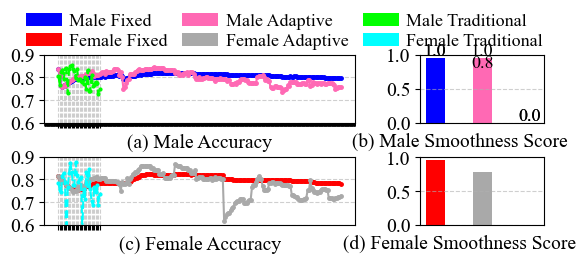
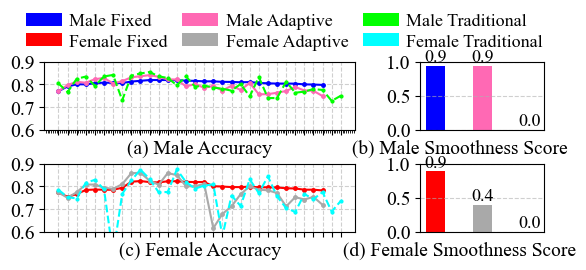
exp

diff --git a/experiments/movielens/river100K/Accuracy_diff/hoeffding_tree/methods_curve_direct_compare/fig.py b/experiments/movielens/river100K/Accuracy_diff/hoeffding_tree/methods_curve_direct_compare/fig.py
@@ -52,7 +52,7 @@ correctness_column = "diff_binary_correctness"
 use_two_counters = True
 time_unit = "1 hour"
 # window_size_units = "24*7*4*2"
-checking_interval = "24 hour"
+checking_interval = "7 day"
 use_nanosecond = False
 
 
@@ -76,44 +76,44 @@ colors_set2 = ["#ff7f0e", "#ffbb78", "#d62728"]  # Orange, light orange, red
 curve_colors = sns.color_palette("magma", 3) + sns.color_palette("viridis", 3)
 curve_colors = ["blue", "red", "hotpink", "DarkGrey", "Lime", "cyan"]
 
-######################################## Dynamic fixed window ########################################
+####################################### Dynamic fixed window ########################################
 
 
-#
-# # Inset zoom
-# from mpl_toolkits.axes_grid1.inset_locator import inset_axes
-# # axins = inset_axes(axs[0][0], width="30%", height="30%", loc="upper right")
-#
-# df_fixed = pd.read_csv(f"fixed_window_{checking_interval}.csv")
-#
-# x_list = np.arange(len(df_fixed))
-# axs[0][0].plot(x_list, df_fixed['male_time_decay'], linewidth=1.5, markersize=2.5, label = 'male fixed window',
-#             linestyle='-', marker='o',
-#             color=curve_colors[0])
-# axs[1][0].plot(x_list, df_fixed['female_time_decay'], linewidth=1.5, markersize=2.5, label = 'female fixed window',
-#             linestyle='-', marker='o',
-#             color=curve_colors[1])
-#
-#
-#
-# ######################################## Dynamic adaptive window ########################################
-#
-# Tb = 24*7
-# Tin = 24
-#
-# df_adaptive = pd.read_csv(f"adaptive_window_{checking_interval}.csv")
-# x_list = np.arange(len(df_adaptive))
-# axs[0][0].plot(x_list, df_adaptive["male_time_decay"], linewidth=1.5, markersize=2.5, label='male adaptive window',
-#             linestyle='-', marker='o',
-#             color=curve_colors[2])
-# axs[1][0].plot(x_list, df_adaptive["female_time_decay"], linewidth=1.5, markersize=2.5, label='female adaptive window',
-#             linestyle='-', marker='o',
-#             color=curve_colors[3])
-#
-#
-#
-# ######################################## traditional ########################################
-#
+
+# Inset zoom
+from mpl_toolkits.axes_grid1.inset_locator import inset_axes
+# axins = inset_axes(axs[0][0], width="30%", height="30%", loc="upper right")
+
+df_fixed = pd.read_csv(f"fixed_window_{checking_interval}.csv")
+
+x_list = np.arange(len(df_fixed))
+axs[0][0].plot(x_list, df_fixed['male_time_decay'], linewidth=1.5, markersize=2.5, label = 'male fixed window',
+            linestyle='-', marker='o',
+            color=curve_colors[0])
+axs[1][0].plot(x_list, df_fixed['female_time_decay'], linewidth=1.5, markersize=2.5, label = 'female fixed window',
+            linestyle='-', marker='o',
+            color=curve_colors[1])
+
+
+
+######################################## Dynamic adaptive window ########################################
+
+Tb = 24*7
+Tin = 24
+
+df_adaptive = pd.read_csv(f"adaptive_window_{checking_interval}.csv")
+x_list = np.arange(len(df_adaptive))
+axs[0][0].plot(x_list, df_adaptive["male_time_decay"], linewidth=1.5, markersize=2.5, label='male adaptive window',
+            linestyle='-', marker='o',
+            color=curve_colors[2])
+axs[1][0].plot(x_list, df_adaptive["female_time_decay"], linewidth=1.5, markersize=2.5, label='female adaptive window',
+            linestyle='-', marker='o',
+            color=curve_colors[3])
+
+
+
+######################################## traditional ########################################
+
 
 
 window_size = "1W"
@@ -185,130 +185,130 @@ axs[1][0].grid(True, axis="x", linestyle='--', alpha=0.6)
 
 fig.savefig("curves.png", bbox_inches='tight')
 
-#
-# ######################################## roughness ########################################
-#
-# def roughness2smoothness(roughness_FPR):
-#     print("Roughness: ", roughness_FPR)
-#
-#     # Scale roughness to smoothness
-#     max_roughness = max(roughness_FPR.values())
-#     smoothness_scores = {key: 1 - (value / max_roughness) for key, value in roughness_FPR.items()}
-#     print("Smoothness Scores (Before Normalization):", smoothness_scores)
-#
-#     # # Normalize smoothness scores to [0, 1]
-#     # max_smoothness = max(smoothness_scores.values())
-#     # min_smoothness = min(smoothness_scores.values())
-#     # normalized_smoothness = {key: score/max_smoothness
-#     #                          for key, score in smoothness_scores.items()}
-#     # print("Normalized Smoothness Scores:", normalized_smoothness)
-#     # print("\n")
-#     return smoothness_scores
-#
-#
-# smooth_male = {}
-# smooth_female = {}
-#
-# with open("roughness_compas_FPR.csv", "w", newline='') as csvfile:
-#     writer = csv.writer(csvfile, delimiter=',')
-#     writer.writerow(["smoothness", "roughness", "check_points"])
-#     writer.writerow(["male_fixed_window", np.std(np.diff(df_fixed["male_time_decay"]) / np.diff(x_list))])
-#     smooth_male["male_fixed_window_smoothness"] = np.std(np.diff(df_fixed["male_time_decay"]) / np.diff(x_list))
-#
-#     writer.writerow(["male_adaptive_window", np.std(np.diff(df_adaptive["male_time_decay"]) / np.diff(x_list))])
-#     smooth_male["male_adaptive_window_smoothness"] = np.std(np.diff(df_fixed["male_time_decay"]) / np.diff(x_list))
-#
-#     tra = df_traditional["calculated_value"].tolist()
-#     tra = [x for x in tra if str(x) != 'nan']
-#     dydx = np.diff(tra) / np.diff(np.arange(0, len(tra)))
-#     sm = np.std(dydx)
-#     writer.writerow(["male_traditional", sm])
-#     smooth_male["male_traditional_smoothness"] = sm
-#
-#
-# print(smooth_male)
-#
-# # smoothness_scores_male = [1/sd for sd in list(smooth_male.values())]  # Example data
-# # # Normalize based on the maximum value observed
-# # max_smoothness_male = max(smoothness_scores_male)
-# # smoothness_scores_normalized_male = [score / max_smoothness_male for score in smoothness_scores_male]
-# smoothness_scores_normalized_male = roughness2smoothness(smooth_male)
-# print("Normalized Smoothness Scores male fixed, adaptive, tradidtional:", smoothness_scores_normalized_male)
-#
-#
-# with open("roughness_compas_FPR.csv", "a", newline='') as csvfile:
-#     writer = csv.writer(csvfile, delimiter=',')
-#     # do the same for females
-#     writer.writerow(["female_fixed_window", np.std(np.diff(df_fixed["female_time_decay"]) / np.diff(x_list))])
-#     smooth_female["female_fixed_window_smoothness"] = np.std(np.diff(df_fixed["female_time_decay"]) / np.diff(x_list))
-#     writer.writerow(["female_adaptive_window", np.std(np.diff(df_adaptive["female_time_decay"]) / np.diff(x_list))])
-#     smooth_female["female_adaptive_window_smoothness"] = np.std(np.diff(df_adaptive["female_time_decay"]) / np.diff(x_list))
-#     tra = df_traditional["calculated_value"].tolist()
-#     tra = [x for x in tra if str(x) != 'nan']
-#     dydx = np.diff(tra) / np.diff(np.arange(0, len(tra)))
-#     sm = np.std(dydx)
-#     writer.writerow(["female_traditional_smoothness", sm])
-#     smooth_female["female_traditional_smoothness"] = sm
-#
-#
-# print(smooth_female)
-#
-# # smoothness_scores_female = [1/sd for sd in list(smooth_female.values())]  # Example data
-# # # Normalize based on the maximum value observed
-# # max_smooth_female = max(smoothness_scores_female)
-# # smoothness_scores_normalized_female = [score / max_smooth_female for score in smoothness_scores_female]
-# smoothness_scores_normalized_female = roughness2smoothness(smooth_female)
-# print("Normalized smoothness Scores female fixed, adaptive, traditional:", smoothness_scores_normalized_female)
-#
-#
-# bar_colors = ["blue", "hotpink",  "Lime",  "red",  "DarkGrey", "cyan"]
-#
-#
-#
-# # Male Smoothness Bar Chart
-# bars = axs[0][1].bar(["Fixed Window", "Adaptive Window", "Traditional Method"],
-#            smoothness_scores_normalized_male.values(), color=bar_colors[:3], width=0.4,
-#               label = ["Male Fixed", "Male Adaptive", "Male Traditional"])
-# axs[0][1].set_title("(b) Male Smoothness Score", y=-0.15, pad=-10, fontsize=14).set_position([0.32, -0.14])
-# axs[0][1].bar_label(bars, label_type='edge', fontsize=13, fmt='%.1f', padding=-1)
-#
-#
-# axs[0][1].set_yticks([0.0, 0.5, 1.0], ["0.0", "0.5", "1.0"], fontsize=14)
-# axs[0][1].grid(True, linestyle='--', alpha=0.6)
-# axs[0][1].set_xticks([], [], rotation=0, fontsize=14)
-# # axs[0][1].set_ylabel('Normalized Smoothness Score', fontsize=14, labelpad=-1).set_position([0.4, -0.1])
-#
-#
-# # Female Smoothness Bar Chart
-# bars = axs[1][1].bar(["Fixed Window", "Adaptive Window", "Traditional Method"],
-#            smoothness_scores_normalized_female.values(), color=bar_colors[3:], width=0.4,
-#               label = ["Female Fixed", "Female Adaptive", "Female Traditional"])
-# axs[1][1].set_title("(d) Female Smoothness Score", y=-0.15, pad=-10, fontsize=14).set_position([0.32, -0.14])
-# axs[1][1].set_yticks([0.0, 0.5, 1.0], ["0.0", "0.5", "1.0"], fontsize=14)
-# axs[1][1].grid(True, linestyle='--', alpha=0.6)
-# axs[1][1].set_xticks([], [], rotation=0, fontsize=14)
-# axs[0][1].bar_label(bars, label_type='edge', fontsize=13, fmt='%.1f', padding=-1)
-#
-#
-# handles, labels = axs[0][1].get_legend_handles_labels()
-# handles1, labels1 = axs[1][1].get_legend_handles_labels()
-# handles = handles + handles1
-# labels = labels + labels1
-# desired_order = [0, 3,  1,4,  2, 5]  # Reorder as needed
-#
-# # Reorder handles and labels
-# reordered_handles = [handles[i] for i in desired_order]
-# reordered_labels = [labels[i] for i in desired_order]
-#
-# axs[0][0].legend(reordered_handles, reordered_labels, title_fontsize=14, loc='upper left',
-#                  bbox_to_anchor=(-0.1, 1.8),
-#                  fontsize=13, ncol=3, labelspacing=0.2, handletextpad=0.4, markerscale=1,
-#                  columnspacing=0.8, borderpad=0.2, frameon=False)
-#
-#
-# fig.savefig("curves_smoothness_score.png", bbox_inches='tight')
-# plt.show()
-#
-#
-#
-#
+
+######################################## roughness ########################################
+
+def roughness2smoothness(roughness_FPR):
+    print("Roughness: ", roughness_FPR)
+
+    # Scale roughness to smoothness
+    max_roughness = max(roughness_FPR.values())
+    smoothness_scores = {key: 1 - (value / max_roughness) for key, value in roughness_FPR.items()}
+    print("Smoothness Scores (Before Normalization):", smoothness_scores)
+
+    # # Normalize smoothness scores to [0, 1]
+    # max_smoothness = max(smoothness_scores.values())
+    # min_smoothness = min(smoothness_scores.values())
+    # normalized_smoothness = {key: score/max_smoothness
+    #                          for key, score in smoothness_scores.items()}
+    # print("Normalized Smoothness Scores:", normalized_smoothness)
+    # print("\n")
+    return smoothness_scores
+
+
+smooth_male = {}
+smooth_female = {}
+
+with open("roughness_compas_FPR.csv", "w", newline='') as csvfile:
+    writer = csv.writer(csvfile, delimiter=',')
+    writer.writerow(["smoothness", "roughness", "check_points"])
+    writer.writerow(["male_fixed_window", np.std(np.diff(df_fixed["male_time_decay"]) / np.diff(x_list))])
+    smooth_male["male_fixed_window_smoothness"] = np.std(np.diff(df_fixed["male_time_decay"]) / np.diff(x_list))
+
+    writer.writerow(["male_adaptive_window", np.std(np.diff(df_adaptive["male_time_decay"]) / np.diff(x_list))])
+    smooth_male["male_adaptive_window_smoothness"] = np.std(np.diff(df_fixed["male_time_decay"]) / np.diff(x_list))
+
+    tra = df_traditional["calculated_value"].tolist()
+    tra = [x for x in tra if str(x) != 'nan']
+    dydx = np.diff(tra) / np.diff(np.arange(0, len(tra)))
+    sm = np.std(dydx)
+    writer.writerow(["male_traditional", sm])
+    smooth_male["male_traditional_smoothness"] = sm
+
+
+print(smooth_male)
+
+# smoothness_scores_male = [1/sd for sd in list(smooth_male.values())]  # Example data
+# # Normalize based on the maximum value observed
+# max_smoothness_male = max(smoothness_scores_male)
+# smoothness_scores_normalized_male = [score / max_smoothness_male for score in smoothness_scores_male]
+smoothness_scores_normalized_male = roughness2smoothness(smooth_male)
+print("Normalized Smoothness Scores male fixed, adaptive, tradidtional:", smoothness_scores_normalized_male)
+
+
+with open("roughness_compas_FPR.csv", "a", newline='') as csvfile:
+    writer = csv.writer(csvfile, delimiter=',')
+    # do the same for females
+    writer.writerow(["female_fixed_window", np.std(np.diff(df_fixed["female_time_decay"]) / np.diff(x_list))])
+    smooth_female["female_fixed_window_smoothness"] = np.std(np.diff(df_fixed["female_time_decay"]) / np.diff(x_list))
+    writer.writerow(["female_adaptive_window", np.std(np.diff(df_adaptive["female_time_decay"]) / np.diff(x_list))])
+    smooth_female["female_adaptive_window_smoothness"] = np.std(np.diff(df_adaptive["female_time_decay"]) / np.diff(x_list))
+    tra = df_traditional["calculated_value"].tolist()
+    tra = [x for x in tra if str(x) != 'nan']
+    dydx = np.diff(tra) / np.diff(np.arange(0, len(tra)))
+    sm = np.std(dydx)
+    writer.writerow(["female_traditional_smoothness", sm])
+    smooth_female["female_traditional_smoothness"] = sm
+
+
+print(smooth_female)
+
+# smoothness_scores_female = [1/sd for sd in list(smooth_female.values())]  # Example data
+# # Normalize based on the maximum value observed
+# max_smooth_female = max(smoothness_scores_female)
+# smoothness_scores_normalized_female = [score / max_smooth_female for score in smoothness_scores_female]
+smoothness_scores_normalized_female = roughness2smoothness(smooth_female)
+print("Normalized smoothness Scores female fixed, adaptive, traditional:", smoothness_scores_normalized_female)
+
+
+bar_colors = ["blue", "hotpink",  "Lime",  "red",  "DarkGrey", "cyan"]
+
+
+
+# Male Smoothness Bar Chart
+bars = axs[0][1].bar(["Fixed Window", "Adaptive Window", "Traditional Method"],
+           smoothness_scores_normalized_male.values(), color=bar_colors[:3], width=0.4,
+              label = ["Male Fixed", "Male Adaptive", "Male Traditional"])
+axs[0][1].set_title("(b) Male Smoothness Score", y=-0.15, pad=-10, fontsize=14).set_position([0.32, -0.14])
+axs[0][1].bar_label(bars, label_type='edge', fontsize=13, fmt='%.1f', padding=0)
+
+
+axs[0][1].set_yticks([0.0, 0.5, 1.0], ["0.0", "0.5", "1.0"], fontsize=14)
+axs[0][1].grid(True, linestyle='--', alpha=0.6)
+axs[0][1].set_xticks([], [], rotation=0, fontsize=14)
+# axs[0][1].set_ylabel('Normalized Smoothness Score', fontsize=14, labelpad=-1).set_position([0.4, -0.1])
+
+
+# Female Smoothness Bar Chart
+bars = axs[1][1].bar(["Fixed Window", "Adaptive Window", "Traditional Method"],
+           smoothness_scores_normalized_female.values(), color=bar_colors[3:], width=0.4,
+              label = ["Female Fixed", "Female Adaptive", "Female Traditional"])
+axs[1][1].set_title("(d) Female Smoothness Score", y=-0.15, pad=-10, fontsize=14).set_position([0.32, -0.14])
+axs[1][1].set_yticks([0.0, 0.5, 1.0], ["0.0", "0.5", "1.0"], fontsize=14)
+axs[1][1].grid(True, linestyle='--', alpha=0.6)
+axs[1][1].set_xticks([], [], rotation=0, fontsize=14)
+axs[1][1].bar_label(bars, label_type='edge', fontsize=13, fmt='%.1f', padding=0)
+
+
+handles, labels = axs[0][1].get_legend_handles_labels()
+handles1, labels1 = axs[1][1].get_legend_handles_labels()
+handles = handles + handles1
+labels = labels + labels1
+desired_order = [0, 3,  1,4,  2, 5]  # Reorder as needed
+
+# Reorder handles and labels
+reordered_handles = [handles[i] for i in desired_order]
+reordered_labels = [labels[i] for i in desired_order]
+
+axs[0][0].legend(reordered_handles, reordered_labels, title_fontsize=14, loc='upper left',
+                 bbox_to_anchor=(-0.1, 1.9),
+                 fontsize=13, ncol=3, labelspacing=0.2, handletextpad=0.4, markerscale=1,
+                 columnspacing=0.8, borderpad=0.2, frameon=False)
+
+
+fig.savefig("curves_smoothness_score.png", bbox_inches='tight')
+plt.show()
+
+
+
+

diff --git a/algorithm/dynamic_window/Accuracy_workload.py b/algorithm/dynamic_window/Accuracy_workload.py
@@ -133,7 +133,7 @@ def traverse_data_DFMonitor_and_baseline(timed_data, date_column, date_time_form
         )
 
     for index, row in timed_data.iterrows():
-        if index % 100 == 0:
+        if index % 1000 == 0:
             print(f"Processing row {index} out of {len(timed_data)}")
         label = "correct" if int(timed_data.loc[index, correctness_column]) == 1 else "incorrect"
         current_clock = row[date_column]

diff --git a/experiments/movielens/river100K/Accuracy_diff/hoeffding_tree/methods_curve_direct_compare/compare_accuracy.py b/experiments/movielens/river100K/Accuracy_diff/hoeffding_tree/methods_curve_direct_compare/compare_accuracy.py
@@ -52,8 +52,7 @@ label_ground_truth = "rating"
 correctness_column = "diff_binary_correctness"
 use_two_counters = True
 time_unit = "1 hour"
-window_size_units = 24
-checking_interval = "24 hour"
+checking_interval = "7 day"
 use_nanosecond = False
 
 
